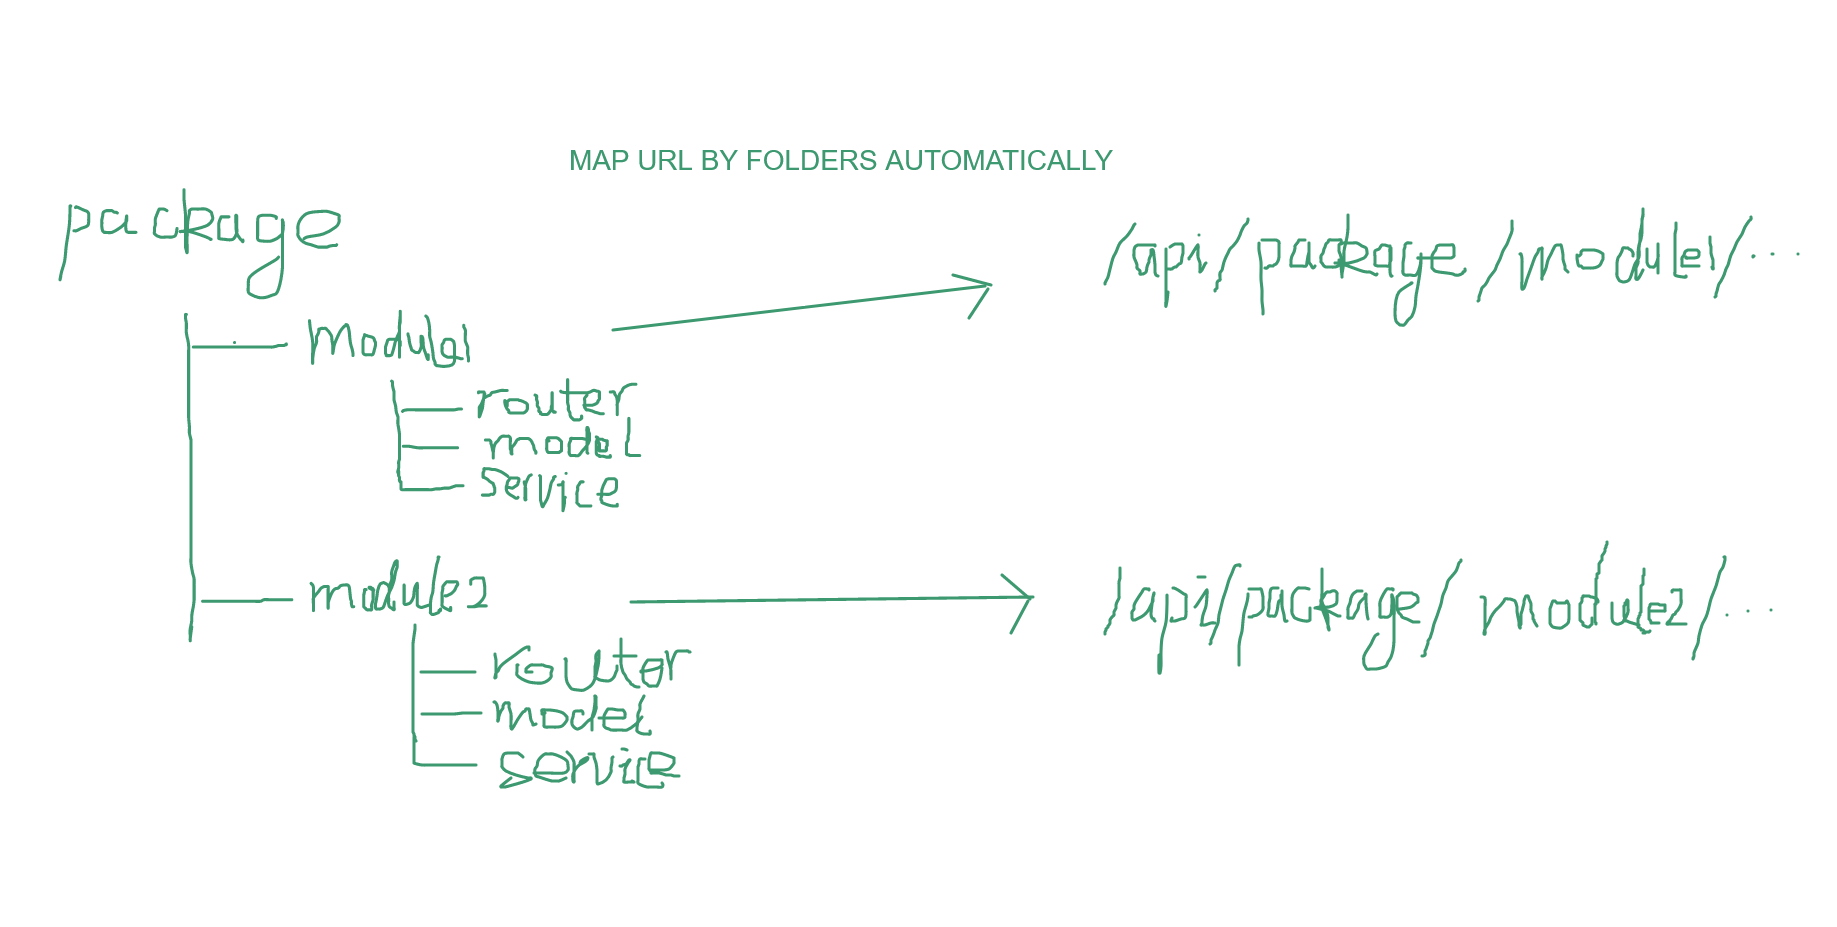
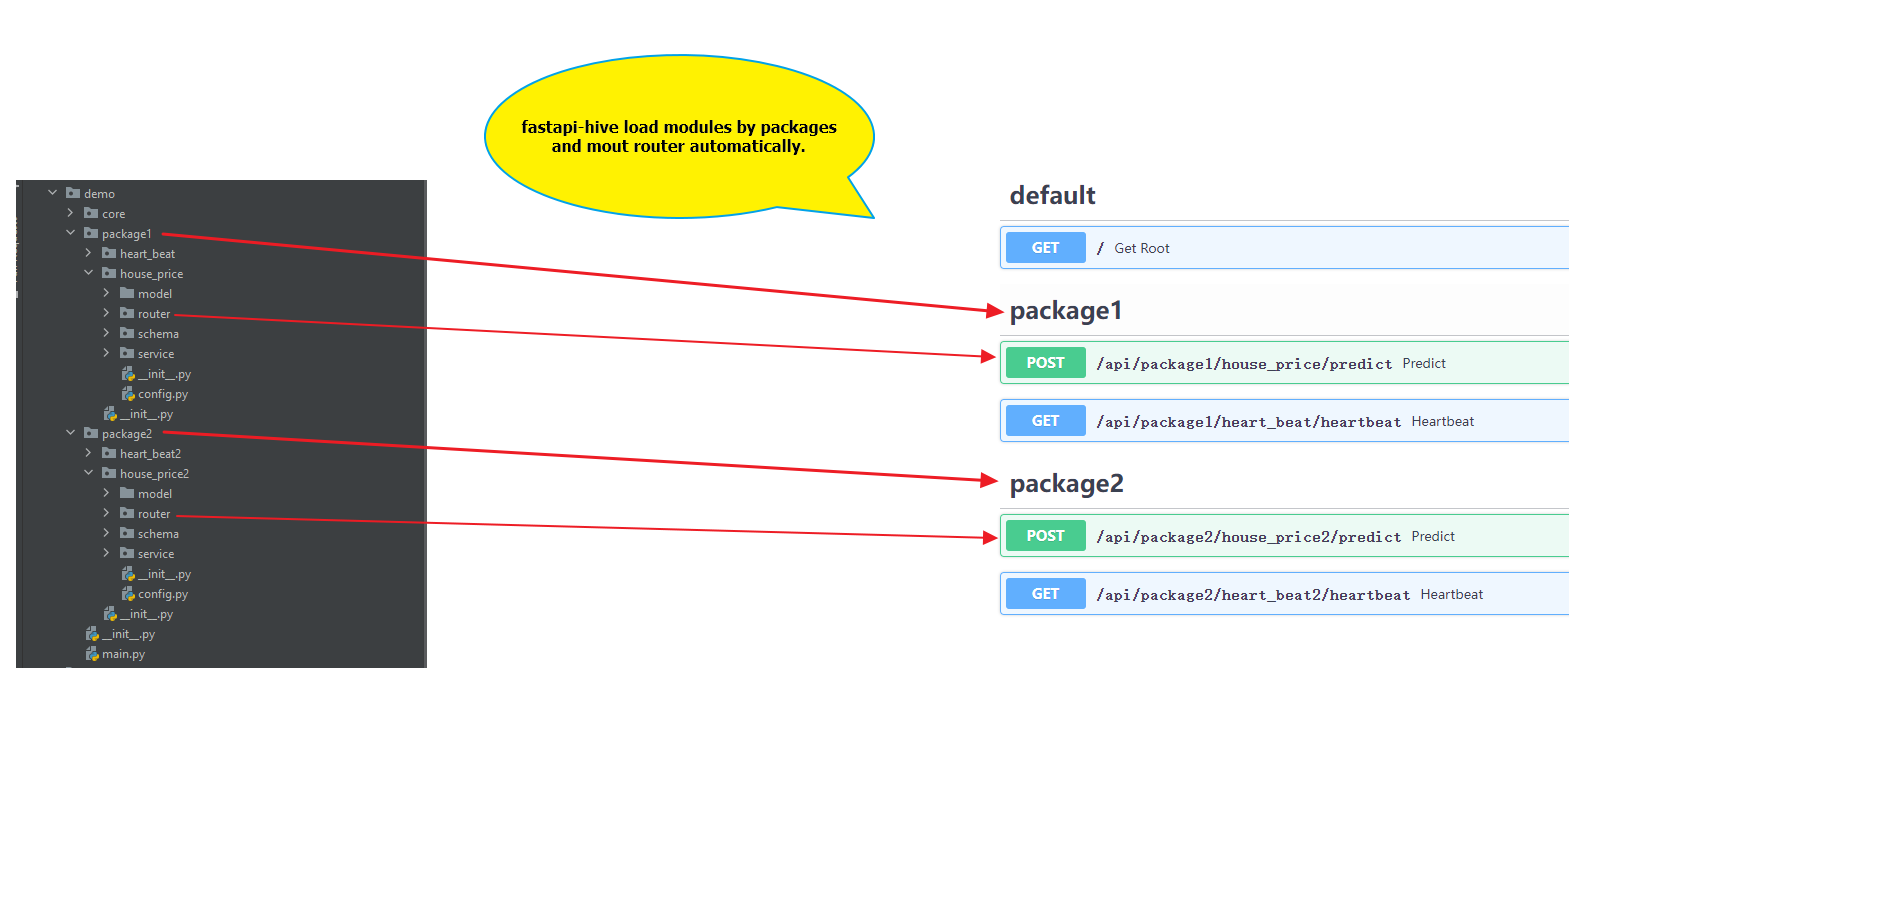
update docs

diff --git a/demo/main.py b/demo/main.py
@@ -19,7 +19,7 @@ def get_app() -> FastAPI:
     # logger.info("-----------------------------------------------------")
     # logger.info(dir(ioc_framework))
     # logger.info(dir(ioc_framework.config))
-    ioc_framework.config.HIDE_PACKAGE_IN_URL = True
+    ioc_framework.config.HIDE_PACKAGE_IN_URL = False
     ioc_framework.init_modules()
 
     # ioc_framework.delete_modules_by_packages(["./demo/package1"])
